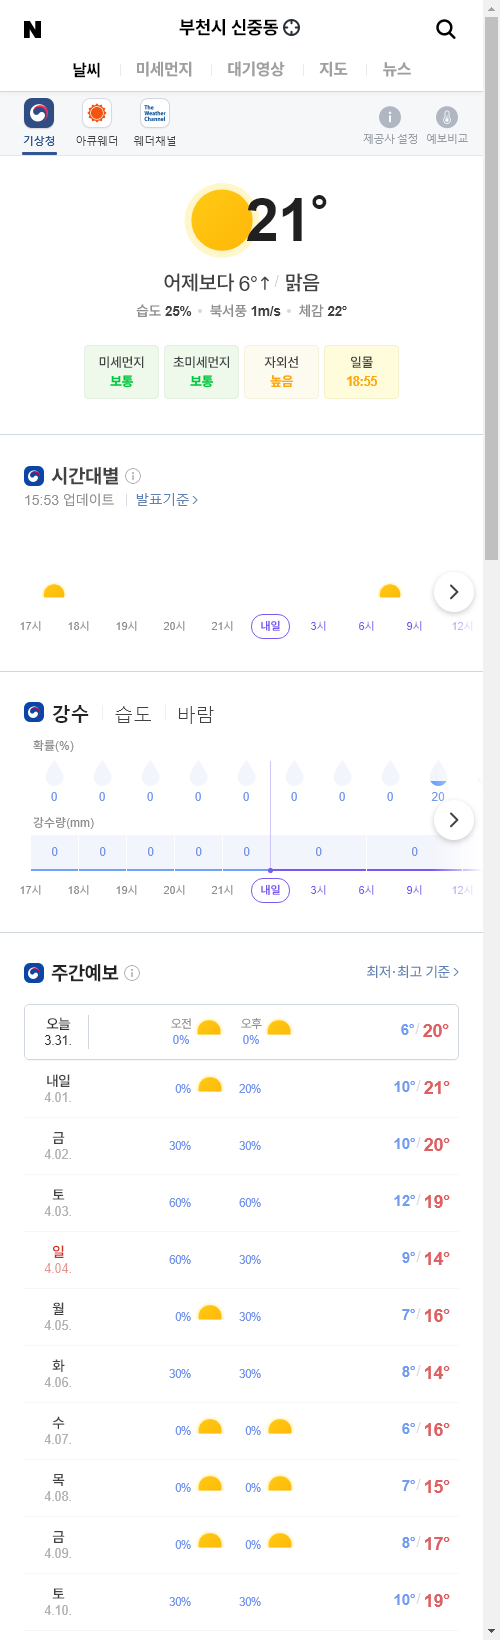
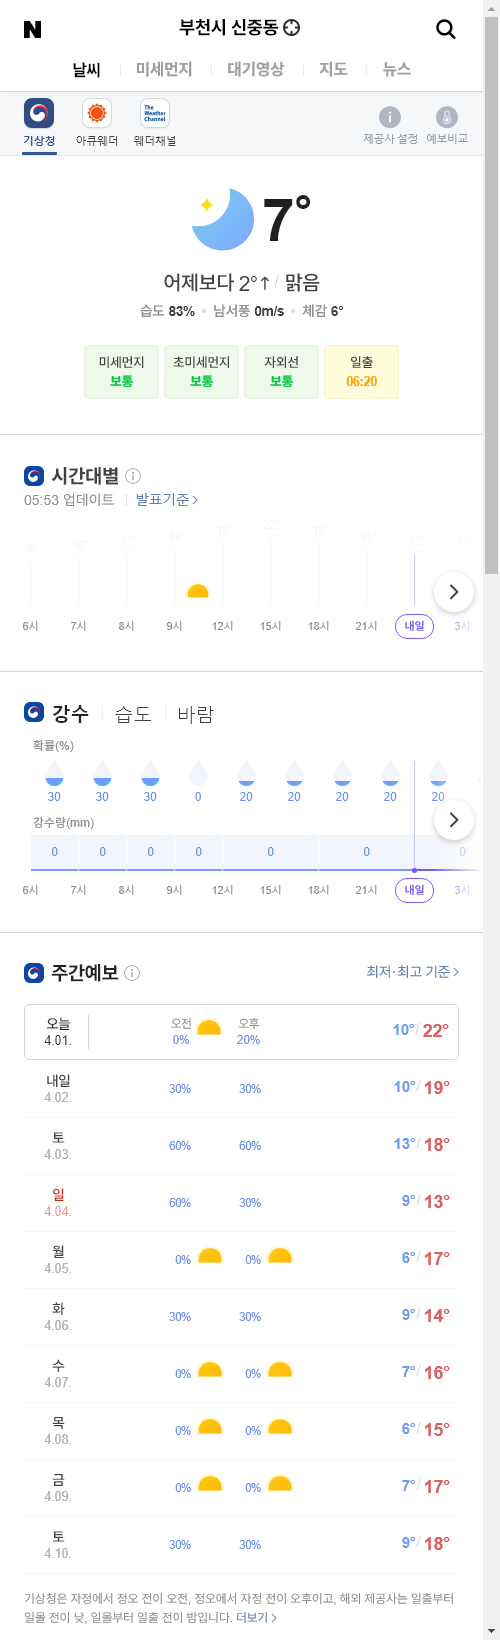
update result

diff --git a/README.md b/README.md
@@ -1,5 +1,5 @@
-##  2021-03-31 16:02:44   수요일 
-##### 날씨   -   어제보다 4° 높아요맑음  
+##  2021-04-01 05:54:33   목요일 
+##### 날씨   -   어제보다 2° 높아요맑음  
 <center><img src="../img/naver_weather_week.png"></center>
 ----
 ----
@@ -13,17 +13,17 @@
 ##### 세계
 <table border="1" bordercolor="blue" align = "center" >
 <tr align = "right" > <td>Item</td><td>Point</td><td>Diff</td><td>Rate</td><td>Buy</td><td>Sell</td><td>...</td>  </tr>
-<tr align = "right" > <td>DOW</td><td>33,066.96</td><td>-104.41</td><td><font size="3" color="blue" >-0.31%</font></td><td><font size="3" color="black">0</font></td><td><font size="3" color="black">0</font></td><td>0</td>  </tr>
-<tr align = "right" > <td>NASDAQ</td><td>13,045.39</td><td>-14.26</td><td><font size="3" color="blue" >-0.11%</font></td><td><font size="3" color="black">0</font></td><td><font size="3" color="black">0</font></td><td>0</td>  </tr>
-<tr align = "right" > <td>S&P</td><td>3,958.55</td><td>-12.54</td><td><font size="3" color="blue" >-0.32%</font></td><td><font size="3" color="black">0</font></td><td><font size="3" color="black">0</font></td><td>0</td>  </tr>
-<tr align = "right" > <td>SHANHAI</td><td>3,441.5</td><td>-15.18</td><td><font size="3" color="blue" >-0.44%</font></td><td><font size="3" color="black">0</font></td><td><font size="3" color="black">0</font></td><td>0</td>  </tr>
-<tr align = "right" > <td>INDIA</td><td>49,651.68</td><td>-484.9</td><td><font size="3" color="blue" >-0.97%</font></td><td><font size="3" color="black">0</font></td><td><font size="3" color="black">0</font></td><td>0</td>  </tr>
+<tr align = "right" > <td>DOW</td><td>32,981.55</td><td>-85.41</td><td><font size="3" color="blue" >-0.26%</font></td><td><font size="3" color="black">0</font></td><td><font size="3" color="black">0</font></td><td>0</td>  </tr>
+<tr align = "right" > <td>NASDAQ</td><td>13,246.87</td><td>201.48</td><td><font size="3" color="red" >1.54%</font></td><td><font size="3" color="black">0</font></td><td><font size="3" color="black">0</font></td><td>0</td>  </tr>
+<tr align = "right" > <td>S&P</td><td>3,972.89</td><td>14.34</td><td><font size="3" color="red" >0.36%</font></td><td><font size="3" color="black">0</font></td><td><font size="3" color="black">0</font></td><td>0</td>  </tr>
+<tr align = "right" > <td>SHANHAI</td><td>3,441.91</td><td>-14.77</td><td><font size="3" color="blue" >-0.43%</font></td><td><font size="3" color="black">0</font></td><td><font size="3" color="black">0</font></td><td>0</td>  </tr>
+<tr align = "right" > <td>INDIA</td><td>49,509.15</td><td>-627.43</td><td><font size="3" color="blue" >-1.25%</font></td><td><font size="3" color="black">0</font></td><td><font size="3" color="black">0</font></td><td>0</td>  </tr>
 </table>
 ----
 ##### 시장
 <table border="1" bordercolor="blue" align = "center" >
 <tr align = "right" > <td>Item</td><td>Price</td><td>Diff</td><td>Rate</td><td>Buy</td><td>Sell</td><td>...</td>  </tr>
-<tr align = "right" > <td>USD</td><td>1,131.0</td><td>-3.2</td><td><font size="3" color="blue">-0.28%</font></td><td><font size="3" color="black">1,110</font></td><td><font size="3" color="black">0</font></td><td>0</td>  </tr>
+<tr align = "right" > <td>USD</td><td>1,130.0</td><td>-5.0</td><td><font size="3" color="blue">-0.44%</font></td><td><font size="3" color="black">1,110</font></td><td><font size="3" color="black">0</font></td><td>0</td>  </tr>
 <tr align = "right" > <td>WTI</td><td>60.55</td><td>-1.01</td><td><font size="3" color="blue">-1.64%</font></td><td><font size="3" color="black">29.0</font></td><td><font size="3" color="black">0</font></td><td>0</td>  </tr>
 <tr align = "right" > <td>GOLD</td><td>1,683.0</td><td>-28.3</td><td><font size="3" color="blue">-1.65%</font></td><td><font size="3" color="black">0</font></td><td><font size="3" color="black">0</font></td><td>0</td>  </tr>
 </table>
